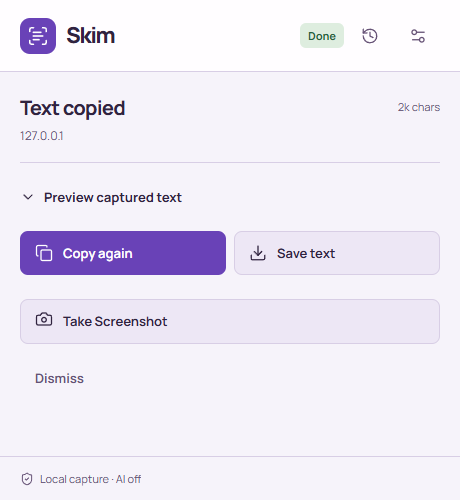
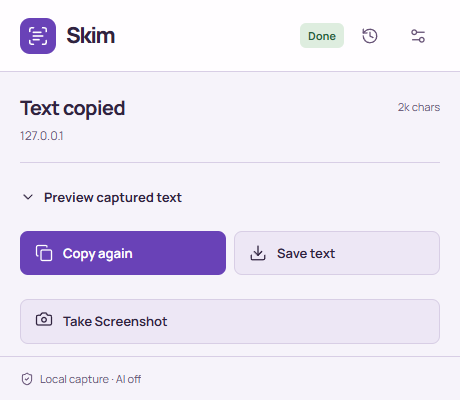
fix: repair native popup sizing, scroll restoration and clipboard focus

diff --git a/api.js b/api.js
@@ -620,6 +620,30 @@ window.CaptureAPI = (function() {
         });
     }
 
+    async function copyTextToClipboard(text) {
+        try {
+            await navigator.clipboard.writeText(text);
+        } catch (error) {
+            // Chrome's async API rejects unfocused documents, including extension popups.
+            // clipboardWrite also permits this synchronous fallback inside our own document.
+            var previous = document.activeElement;
+            var field = document.createElement('textarea');
+            field.value = text;
+            field.readOnly = true;
+            field.setAttribute('aria-hidden', 'true');
+            field.style.cssText = 'position:fixed;left:0;top:0;width:1px;height:1px;opacity:0;pointer-events:none';
+            document.body.appendChild(field);
+            try {
+                field.focus({preventScroll:true});
+                field.select();
+                if (!document.execCommand('copy')) throw error;
+            } finally {
+                field.remove();
+                if (previous && previous.isConnected) previous.focus({preventScroll:true});
+            }
+        }
+    }
+
     function capturePageText(tab, callback, errback, autoRedact, opts) {
         opts = opts || {};
         var doIframes = opts.extractIframes !== false;
@@ -650,36 +674,16 @@ window.CaptureAPI = (function() {
 
                     function _writeAndCallback(finalText) {
                         if (autoRedact !== false) finalText = SkimPrivacy.redactText(finalText);
-                        // Write from the tab context. The popup loses focus
-                        // before navigator.clipboard.writeText resolves on
-                        // slow pages, causing "Document is not focused"
-                        // errors. The tab is always focused (it's the active
-                        // tab) so clipboard.writeText succeeds there.
-                        chrome.scripting.executeScript({
-                            target: { tabId: tab.id },
-                            func: function(t) {
-                                return navigator.clipboard.writeText(t).then(
-                                    function() { return { ok: true }; },
-                                    function(e) { return { ok: false, err: String(e && e.message || e) }; }
-                                );
-                            },
-                            args: [finalText],
-                        }, function(results) {
-                            var r = results && results[0] && results[0].result;
-                            if (r && r.ok) { callback(finalText); return; }
-                            // Fallback: popup context (works on simple pages
-                            // where popup keeps focus through the write).
-                            navigator.clipboard.writeText(finalText).then(function() {
-                                callback(finalText);
-                            }).catch(function(err) {
-                                errback('Clipboard error: ' + (r && r.err || err.message || 'unknown'));
-                            });
+                        copyTextToClipboard(finalText).then(function() {
+                            callback(finalText);
+                        }).catch(function(err) {
+                            errback('Clipboard error: ' + (err.message || 'unknown'));
                         });
                     }
 
                     // After the (optional) cross-frame pass, maybe summarize
                     // before clipboard write. Both paths converge at
-                    // _writeAndCallback so the tab-context clipboard fix
+                    // _writeAndCallback so the clipboard fallback
                     // applies regardless.
                     function _maybeSummarize(finalText) {
                         if (autoRedact !== false) finalText = SkimPrivacy.redactText(finalText);
@@ -733,8 +737,8 @@ window.CaptureAPI = (function() {
 
     // Vibe-code mode: ask page.js for a single markdown block describing
     // the page's UI (META / HTML / CSS / COMPUTED / ASSETS) and copy it.
-    // Cloned from capturePageText — same injection + tab-context
-    // clipboard-write pattern, no iframe/summarization passes (the code
+    // Same injection and extension clipboard path as capturePageText,
+    // without iframe/summarization passes (the code
     // snapshot is top-frame only by design).
     function capturePageCode(tab, callback, errback, autoRedact) {
         chrome.scripting.executeScript(
@@ -756,27 +760,10 @@ window.CaptureAPI = (function() {
                         errback('No code extracted from page');
                         return;
                     }
-                    // Write from the tab context — same fix as text copy
-                    // (writeText works from the tab; the popup may lose
-                    // focus before the write resolves on slow pages).
-                    chrome.scripting.executeScript({
-                        target: { tabId: tab.id },
-                        func: function(t) {
-                            return navigator.clipboard.writeText(t).then(
-                                function() { return { ok: true }; },
-                                function(e) { return { ok: false, err: String(e && e.message || e) }; }
-                            );
-                        },
-                        args: [text],
-                    }, function(results) {
-                        var r = results && results[0] && results[0].result;
-                        if (r && r.ok) { callback(text); return; }
-                        // Fallback: popup context
-                        navigator.clipboard.writeText(text).then(function() {
-                            callback(text);
-                        }).catch(function(err) {
-                            errback('Clipboard error: ' + (r && r.err || err.message || 'unknown'));
-                        });
+                    copyTextToClipboard(text).then(function() {
+                        callback(text);
+                    }).catch(function(err) {
+                        errback('Clipboard error: ' + (err.message || 'unknown'));
                     });
                 });
             }
@@ -791,7 +778,7 @@ window.CaptureAPI = (function() {
                 var result=results && results[0] && results[0].result;
                 if(chrome.runtime.lastError || !result || result.error) {errback(result && result.error || 'Transcript extraction failed');return;}
                 var text=autoRedact !== false ? SkimPrivacy.redactText(result.text) : result.text;
-                navigator.clipboard.writeText(text).then(function(){callback(text);}).catch(function(e){errback('Clipboard write failed: '+e.message);});
+                copyTextToClipboard(text).then(function(){callback(text);}).catch(function(e){errback('Clipboard write failed: '+e.message);});
             });
         });
     }
@@ -804,6 +791,7 @@ window.CaptureAPI = (function() {
         capturePageText: capturePageText,
         capturePageCode: capturePageCode,
         copyBlobToClipboard: copyBlobToClipboard,
+        copyTextToClipboard: copyTextToClipboard,
         writeImageToClipboardInTab: _writeImageBlobToTabClipboard,
         summarizeViaLLM: summarizeViaLLM,
         summarizeViaOpenRouter: summarizeViaLLM,  // legacy alias

diff --git a/popup.css b/popup.css
@@ -2,7 +2,8 @@
 *,*::before,*::after{box-sizing:border-box;margin:0;padding:0}
 :root{color-scheme:dark;--bg:#111019;--surface:#191722;--surface2:#242130;--border:#393347;--border2:#625970;--text:#f4f0fa;--muted:#c3b9d2;--dim:#b2a6c3;--accent:#b5a0ff;--accent-bg:#352b50;--accent-fg:#d5c8ff;--on-accent:#24163f;--ok-bg:#243e34;--ok-fg:#b0e4c4;--err-bg:#472f2b;--err-fg:#ffbcae;--r:12px;--r-sm:8px}
 [data-theme=light]{color-scheme:light;--bg:#f6f3fa;--surface:#fffdfF;--surface2:#ede7f5;--border:#d8cee5;--border2:#afa0c2;--text:#30233f;--muted:#665276;--dim:#705d80;--accent:#6942b7;--accent-bg:#e9def8;--accent-fg:#563094;--on-accent:#fff;--ok-bg:#deeddf;--ok-fg:#285f3d;--err-bg:#f9e5df;--err-fg:#9e3025}
-body{font-family:Manrope,sans-serif;background:var(--bg);color:var(--text);width:460px;max-width:100vw;font-size:13px;line-height:1.55;-webkit-font-smoothing:antialiased}
+html{width:460px;min-width:460px}
+body{font-family:Manrope,sans-serif;background:var(--bg);color:var(--text);width:460px;min-width:460px;font-size:13px;line-height:1.55;-webkit-font-smoothing:antialiased}
 button,input,select,textarea{font:inherit}button{cursor:pointer}button:disabled{opacity:.45;cursor:default}button,input,select,textarea,summary{outline-offset:3px}button:focus-visible,input:focus-visible,select:focus-visible,textarea:focus-visible,summary:focus-visible{outline:2px solid var(--accent)}
 svg{width:18px;height:18px;fill:none;stroke:currentColor;stroke-width:1.75;stroke-linecap:round;stroke-linejoin:round;flex-shrink:0}
 .app-header{display:flex;align-items:center;justify-content:space-between;padding:12px 20px;border-bottom:1px solid var(--border);background:var(--surface)}.logo{display:flex;align-items:center;gap:10px}.logo-box{display:grid;place-items:center;width:36px;height:36px;border-radius:10px;background:var(--accent);color:var(--on-accent)}.logo-box svg{width:22px;height:22px}.logo-name{font-weight:800;font-size:22px;letter-spacing:-.06em}.header-right{display:flex;align-items:center;gap:4px}.icon-btn{width:44px;height:44px;border:0;background:transparent;color:var(--muted);border-radius:var(--r-sm);display:grid;place-items:center}.icon-btn:hover,.icon-btn.active{background:var(--accent-bg);color:var(--accent-fg)}
@@ -15,6 +16,6 @@ details.sec-collapsible{border-top:1px solid var(--border);padding-top:12px}summ
 #history .body{gap:4px;min-height:100px}.h-empty{padding:32px 0;text-align:center;color:var(--muted)}.h-item{display:flex;align-items:center;gap:12px;width:100%;padding:12px 8px;border:0;border-bottom:1px solid var(--border);background:transparent;color:var(--text);text-align:left;min-height:64px}.h-item:hover{background:var(--surface2)}.h-icon{color:var(--muted);display:flex}.h-meta{min-width:0;flex:1}.h-url{font-weight:650;overflow:hidden;text-overflow:ellipsis;white-space:nowrap}.h-info,.h-ago{font-size:11px;color:var(--muted)}.h-footer{display:flex;justify-content:space-between;padding:8px 20px;border-top:1px solid var(--border)}.h-footer .btn{width:auto}.local-footer{padding:12px 20px;color:var(--muted);font-size:11px;border-top:1px solid var(--border);display:flex;align-items:center;gap:6px}.local-footer svg{width:14px;height:14px}
 @media(prefers-reduced-motion:reduce){*,*::before,*::after{animation:none!important;transition:none!important}.fill.pulse{width:50%}}
 
-body{display:flex;flex-direction:column;height:500px;max-height:500px;overflow:hidden}.app-header,.local-footer,#youtube-controls{flex-shrink:0}.panel{min-height:0;flex:1;max-height:none}.local-footer{margin-top:auto}
+body{display:flex;flex-direction:column;height:400px;max-height:400px;overflow:hidden}.app-header,.local-footer,#youtube-controls{flex-shrink:0}.panel{min-height:0;flex:1;max-height:none}.local-footer{margin-top:auto}
 .app-header{height:72px}.local-footer{height:44px}.local-footer span{min-width:0;overflow:hidden;text-overflow:ellipsis;white-space:nowrap}
 /* A fixed frame: only the active panel scrolls between loading, review and settings. */

diff --git a/page.js b/page.js
@@ -457,6 +457,12 @@ function extractPageContextAsync(callback) {
     // ── Save original scroll position ────────────────────────
     var origScrollTop  = scrollEl ? scrollEl.scrollTop  : window.scrollY;
     var origScrollLeft = scrollEl ? scrollEl.scrollLeft : window.scrollX;
+    var originalFocus = document.activeElement;
+    // Site smooth scrolling otherwise keeps animating while the next sweep step runs.
+    var scrollStyle = document.createElement('style');
+    scrollStyle.textContent = '* { scroll-behavior: auto !important; scroll-snap-type: none !important; overflow-anchor: none !important; }';
+    document.documentElement.appendChild(scrollStyle);
+    var restoreTimer = setTimeout(function() { scrollStyle.remove(); }, 180000);
 
     // ── Helpers ───────────────────────────────────────────────
     function getScrollTop() {
@@ -1170,7 +1176,7 @@ function extractPageContextAsync(callback) {
             });
 
             try {
-                cb.focus();
+                cb.focus({preventScroll:true});
                 // react-select opens on ArrowDown; native ARIA opens on it too.
                 ['keydown', 'keyup'].forEach(function(type) {
                     cb.dispatchEvent(new KeyboardEvent(type, {
@@ -1208,12 +1214,15 @@ function extractPageContextAsync(callback) {
 
     function finalize() {
         // Restore original scroll position so page looks unchanged to the user
+        if (originalFocus && originalFocus.isConnected) originalFocus.focus({preventScroll:true});
         if (scrollEl) {
             scrollEl.scrollTop  = origScrollTop;
             scrollEl.scrollLeft = origScrollLeft;
         } else {
             window.scrollTo(origScrollLeft, origScrollTop);
         }
+        clearTimeout(restoreTimer);
+        scrollStyle.remove();
 
         // ── Assemble output ───────────────────────────────────
         var out = headerLines.slice();
@@ -1329,12 +1338,12 @@ async function getPositions(callback) {
         await new Promise(function(r) { requestAnimationFrame(function() { requestAnimationFrame(r); }); });
     };
     var restore = function() {
-        style.remove();
         changed.forEach(function(item) {
             if (item[1] === null) item[0].removeAttribute('style');
             else item[0].setAttribute('style', item[1]);
         });
         target.scrollTo(origX, origY);
+        style.remove();
     };
     // Popup closure or messaging failure must not leave the page modified.
     var expired = false;

diff --git a/popup.js b/popup.js
@@ -305,7 +305,7 @@ function makeHistoryItem(entry) {
     item.addEventListener('click', function() {
       var text=settings.autoRedact !== false ? SkimPrivacy.redactText(entry.text) : entry.text;
       if(entry.truncated)text+='\nCAPTURE WARNING: this saved history entry was truncated.';
-      navigator.clipboard.writeText(text).then(function() {
+      CaptureAPI.copyTextToClipboard(text).then(function() {
         setBadge('done', 'Copied');
       }).catch(function() {setBadge('err','Copy failed');});
     });
@@ -425,7 +425,7 @@ function prepareTextExport(text) {
 }
 function exportText(copy) {
   var text = settings.autoRedact !== false ? SkimPrivacy.redactText(capturedText) : capturedText;
-  if (copy) return navigator.clipboard.writeText(text).then(function() {
+  if (copy) return CaptureAPI.copyTextToClipboard(text).then(function() {
     $('text-status').textContent = 'Copied full captured text';
   }).catch(function() { $('text-status').textContent = 'Copy failed. Use Save text.'; });
   SkimExports.download(new Blob([text], {type:'text/plain;charset=utf-8'}), 'skim-capture-' + Date.now() + '.txt');

diff --git a/TESTING.md b/TESTING.md
@@ -22,13 +22,18 @@ No production API key is required. The provider tests use synthetic responses. `
 | `verify-capture.cjs` | Browser scroll orchestration, nested crop, restoration and failed-tile handling with simulated tile messages. |
 | `verify-youtube.cjs` | Legacy renderer, earlier view-model and current native view-model layouts: timestamp links, every fixture segment and scroll restoration. |
 | `verify-permissions.cjs` | Exact production manifest in a fresh Chrome profile: native popup registration; no installed host/clipboard-read grants; scripting, screenshot and provider network access denied without permission. |
-| `verify-e2e.cjs` | An isolated unpacked Chromium extension exercising actual scripting, capture, storage, PNG clipboard and downloads. Pixel checks cover nested stitching, ordinary horizontal overflow, part seams, input masks and manually reviewed masks. Full text downloads and all-part ZIPs are read back. Keyboard controls and the fixed 460 × 500 popup are checked. |
+| `verify-action.cjs` | A real native action popup opened with `chrome.action.openPopup()` in a disposable profile. Tests the 460 × 400 viewport and body across panels, production extraction defaults, smooth-scroll position/focus restoration and real clipboard readback. Background text/code capture runs with Playwright's forced focus disabled and a clipboard-restricted captured page. |
+| `verify-e2e.cjs` | An isolated unpacked Chromium extension exercising actual scripting, capture, storage, PNG clipboard and downloads. Pixel checks cover nested stitching, ordinary horizontal overflow, part seams, input masks and manually reviewed masks. Full text downloads and all-part ZIPs are read back. Keyboard controls and the fixed 460 × 400 popup are checked. |
 
 E2E fixtures also cover native transcript controls, scrolling, timestamp records and failure without clipboard replacement. They are controlled DOM fixtures, not live YouTube acceptance.
 
 ## Important boundaries
 
-The automated E2E test opens the extension popup in a separate test window. Its disposable manifest adds fixture host access and clipboard read permission. Only its active-tab lookup is redirected to the fixture tab; production has neither those host grants nor clipboard read permission. Consequently, passing E2E does not prove the actual installed toolbar's `activeTab` gesture or Chrome permission prompt works in a particular user's profile.
+`verify-e2e.cjs` opens the extension popup in a separate test window and disables dropdown probing. Its disposable manifest adds fixture host access and clipboard read permission. Only its active-tab lookup is redirected to the fixture tab; production has neither those host grants nor clipboard read permission. This test alone missed actual native-popup sizing and focus failures.
+
+`verify-action.cjs` uses Chrome's real native action popup and production extraction defaults without redirecting tab lookup. Its disposable manifest grants only localhost access and clipboard readback. `openPopup()` does not grant `activeTab`, so this still does not prove a physical toolbar gesture or a permission prompt in the user's installed profile. Use `node verify-action.cjs --headed` to inspect the same test in a visible disposable browser.
+
+Installed-profile acceptance failed on November 2, 2026: the user supplied a real “Document is not focused” clipboard error and reported scrolling jitter and a narrow/tall popup. The new regression reproduced a 25px native popup width, incomplete scroll restoration, and failed clipboard writes from an actually unfocused extension document. These failures invalidate prior readiness claims. The stable release remains unpublished while repairs await installed-profile acceptance.
 
 On November 2, 2026, investigation found a current native `transcript-segment-view-model` layout with different timestamp/text classes. Skim previously missed those readable segments. A failing regression reproduced the problem, and the minimal selector fix passed all three layout variants plus the native extension clipboard path. A fresh unsigned-in live browser then captured 110 segments (19,051 characters), from 0:07 to 15:01, on Stanford's public 2005 Steve Jobs commencement video (`UF8uR6Z6KLc`), reaching the transcript panel's stable end. This is live DOM extraction evidence, not verification against audio or a claim that every video works.
 

diff --git a/README.md b/README.md
@@ -18,7 +18,7 @@ Skim is a local-first Chrome extension for copying page text, UI code and availa
 - **Reviewed screenshots:** stitch full pages or a main scroll pane, add opaque masks by dragging or keyboard coordinates, undo masks, then explicitly copy or save.
 - **Complete captured-output export:** preview and save the current text without the history preview cap; save one PNG or a ZIP containing every reviewed screenshot part.
 - **YouTube transcripts:** read the native transcript when YouTube makes it available, preserving timestamps and links. Live-site limitations are documented below.
-- **Comfortable controls:** consistent local SVGs, purple light/dark themes, keyboard-accessible history and a fixed 460 × 500 frame with internal scrolling.
+- **Comfortable controls:** consistent local SVGs, purple light/dark themes, keyboard-accessible history and a fixed 460 × 400 frame with internal scrolling.
 
 ## Install
 
@@ -41,6 +41,8 @@ History stays local. Large saved history entries are capped and carry a truncati
 
 AI summarization is optional compression before text is copied. Leave it **off** to capture locally and paste into any AI app yourself. Turn it **on** only if you want Skim to send captured page text to the selected provider using your API key. Charges and provider retention policies may apply.
 
+Moonshot, Z.ai and OpenRouter are optional presets. Listing their hosts in the manifest does not grant access on installation. Capture, redaction, screenshots and exports require no AI provider.
+
 Configure an HTTPS OpenAI-compatible base URL, model and key in **Settings → AI summarization**. Presets are editable starting points, not a promise of model availability or account entitlement. The **Test provider** button sends a small test prompt and may be billable. Chrome's host permission is separate from the summarization toggle. Turning AI off stops automatic requests but does not revoke an already granted Chrome permission.
 
 Changing provider/base URL clears the saved key and turns AI off. If summarization fails, Skim copies raw captured text and displays a failure warning. AI summaries can omit information; choose local capture when exact captured text matters. Screenshot, code and transcript captures do not use this summarization path. Read [Privacy](PRIVACY.md) before using it with sensitive pages.
@@ -52,6 +54,7 @@ Changing provider/base URL clears the saved key and turns AI off. If summarizati
 - Exported text reports coverage and truncation. Redaction recognizes common patterns, not every possible secret. Review before sharing.
 - **YouTube depends on native transcript availability.** Skim supports the current and legacy transcript layouts. On November 2, 2026, the current layout was verified on a live public video (110 segments, 0:07–15:01). Some videos/profiles still return HTTP 400 or show site-access/ad-blocker restrictions; Skim reports failure instead of bypassing those restrictions or silently substituting page text.
 - Automated browser tests use an isolated unpacked extension. Actual installed-toolbar gestures and provider permission prompts still require verification in the user's profile. See [Testing](TESTING.md) for exact evidence boundaries.
+- **1.2.1 remains a release candidate.** Installed-profile testing exposed clipboard focus failures, scrolling jitter and incorrect native popup sizing. Repairs have automated regressions; installed-profile acceptance is still required before a stable release.
 
 ## Develop
 

diff --git a/CHANGES.md b/CHANGES.md
@@ -2,7 +2,10 @@
 
 ## 1.2.1 — release candidate
 
-- Resize the fixed popup to 460 × 500, with consistent padding and internal scrolling.
+- Fix native action-popup sizing (the viewport-width cap could collapse its width); use a fixed 460 × 400 frame with consistent padding and internal scrolling.
+- Fix text/code/transcript, history and recopy clipboard writes when the extension document loses focus. Use the existing clipboard permission inside the extension rather than relying on the captured page's clipboard policy.
+- Prevent smooth scrolling from fighting text capture and restore page position/focus before completion. Restore screenshot position before re-enabling site scrolling styles.
+- Add a real native-action popup regression using production extraction defaults; disable Playwright's artificial focus for background-document clipboard checks.
 - Fix live YouTube extraction for the current native transcript view-model and its timestamp/text classes; retain both older layouts.
 - Add layout regressions, native extension clipboard coverage for the current layout and successful live DOM verification.
 - Add exact-production-manifest permission tests with no host grants, proving capture and provider requests are denied before permission.

diff --git a/.impeccable.md b/.impeccable.md
@@ -7,7 +7,7 @@ People capturing web context for AI conversations, research and UI development. 
 Precise, calm, capable. Plain language and honest coverage indicators build confidence.
 
 ### Aesthetic Direction
-A compact editorial utility with purple accents (Kian's explicit preference), bundled Manrope typography and consistent Lucide SVGs. Fixed 460 × 500 popup with internal panel scrolling and consistent 20px padding. Support light and dark themes. Avoid decoration that competes with captured content.
+A compact editorial utility with purple accents (Kian's explicit preference), bundled Manrope typography and consistent Lucide SVGs. Fixed 460 × 400 popup with internal panel scrolling and consistent 20px padding. Set intrinsic width explicitly for Chrome's native action popup. Support light and dark themes. Avoid decoration that competes with captured content.
 
 ### Design Principles
 - Capture first; keep secondary configuration out of the main flow.
